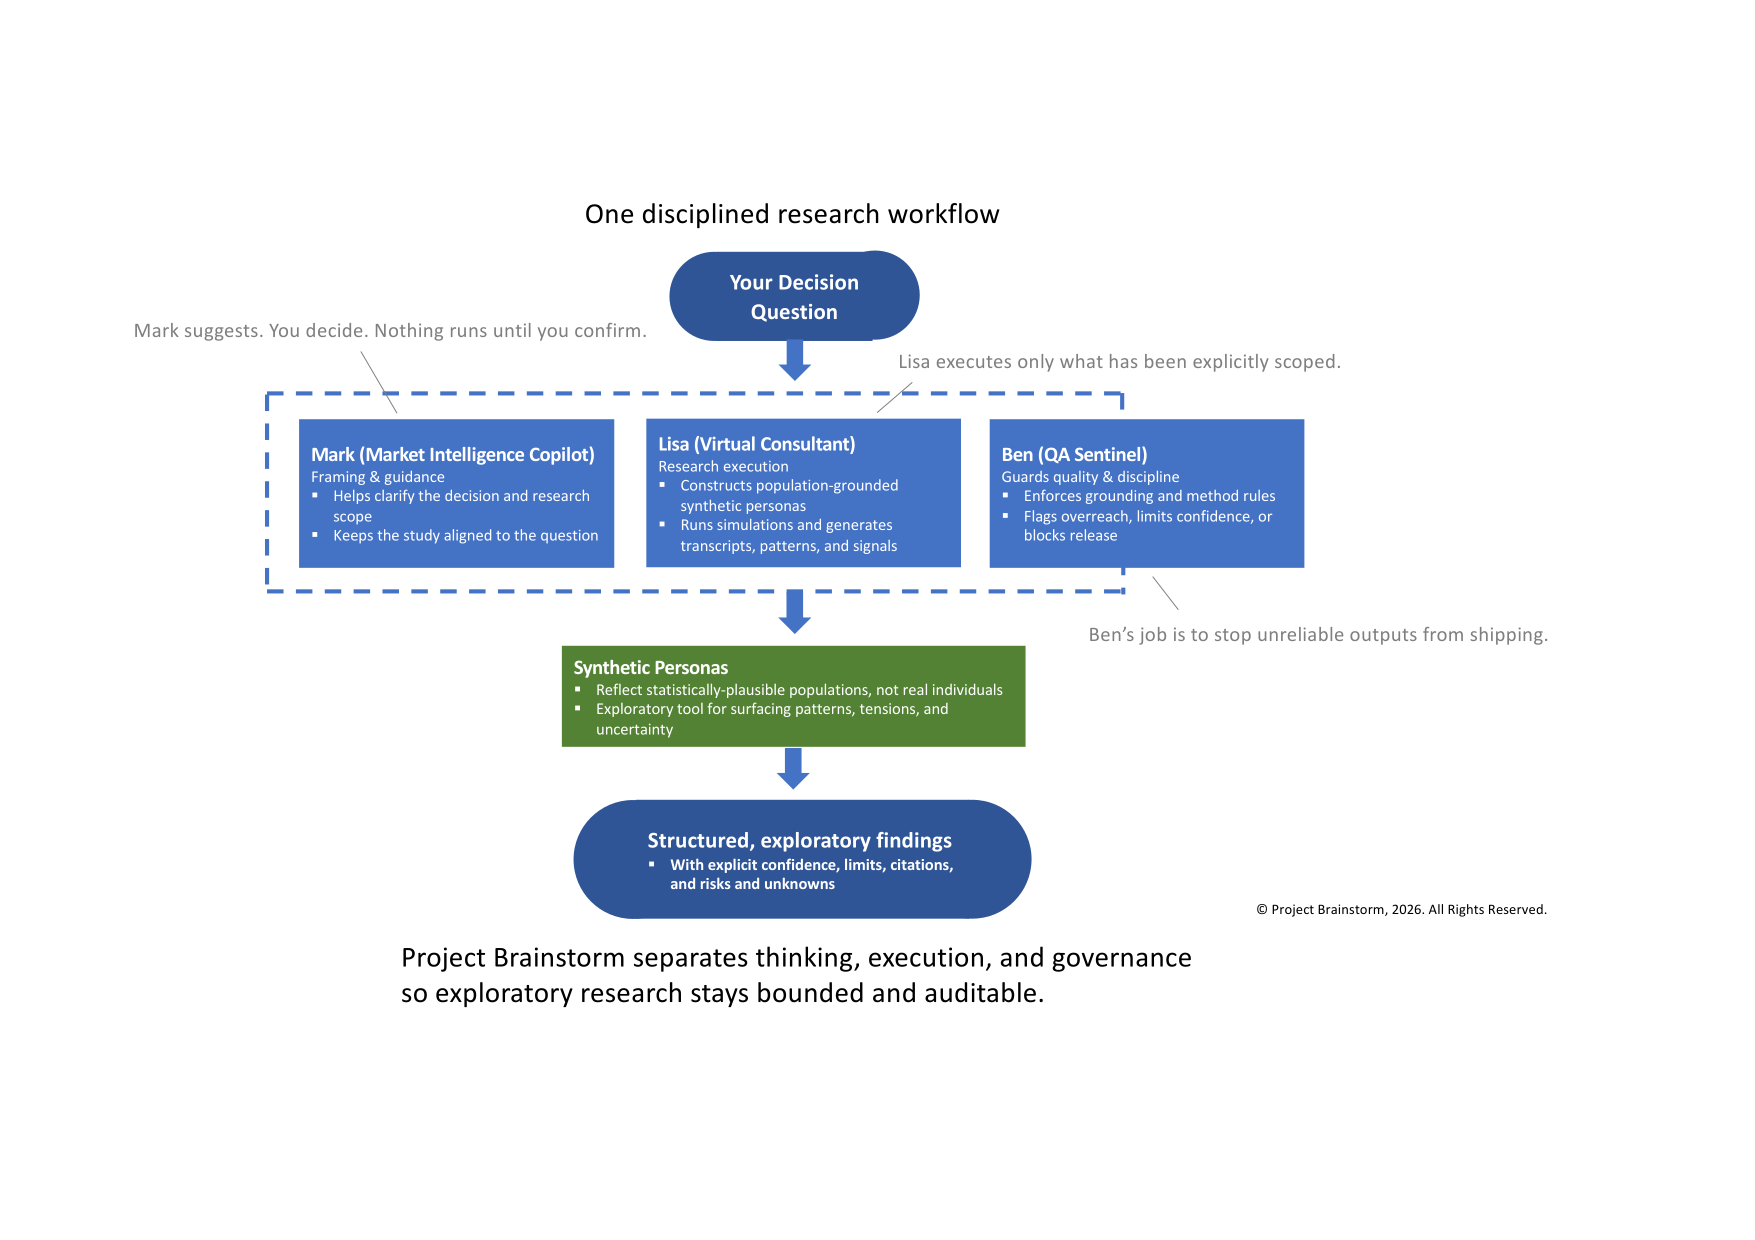
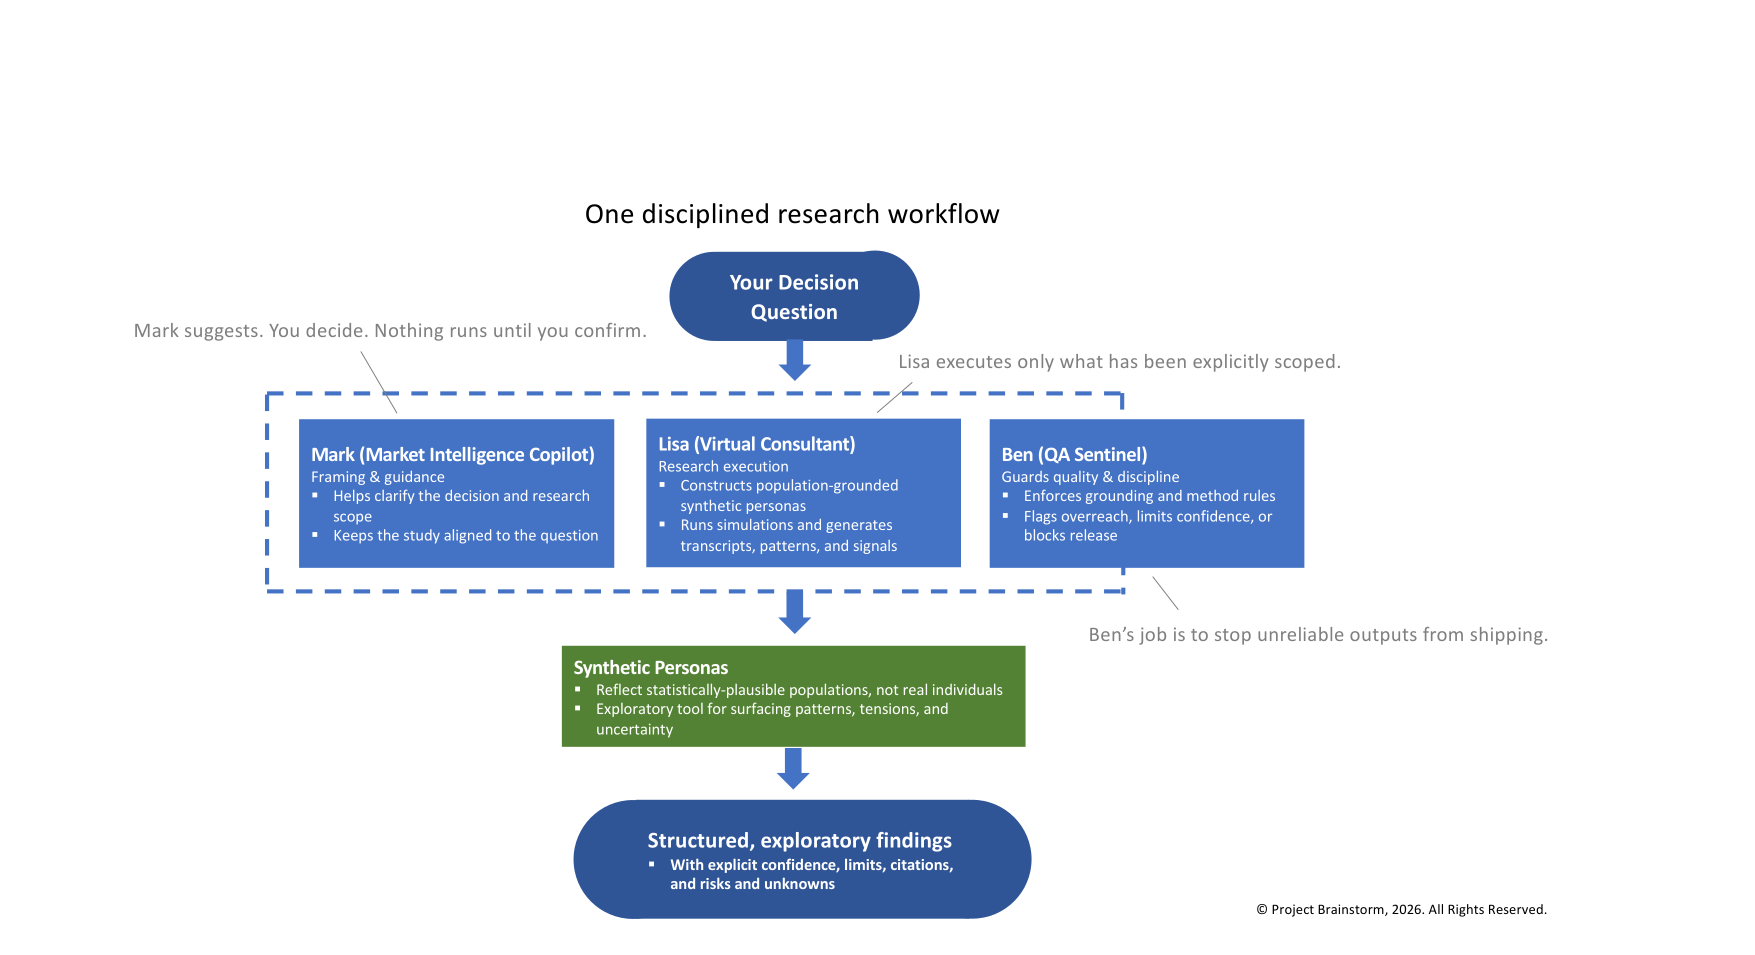
Landing V2: wider container, tighter spacing, fix CTA + workflow + pinned cards
Apply 8 visual/copy fixes to artifacts/brainstorm/templates/landing.html
(V2 English landing page) per user feedback:

1. Wider desktop container: .landing-content-inner max-width 860px → 1180px
   (and pin .landing-copy-zh to 860px so the zh page keeps its old width).
2. Tighten vertical spacing throughout the V2 section:
   .landing-v2 padding 32 36 → 24 32, intro/h2/ul/li/p/block/cta/belowfold
   margins all reduced (≈30% denser) without hurting readability.
3. Pair scope blocks: 'What this beta is for' + 'What it is not' now sit
   inside a single shared light card (.landing-fornot-card, #fafbfc with
   1px #e6ebf0 border). Column ratio updated 60/40 → 55/45.
4. De-emphasise the 'Beta V1A intentionally stops…' note: removed the
   white highlight bar / accent border / padding; now plain italic 14px
   gray text inside the scope card, tighter to it.
5. Merge the two 'Why this is a beta' lead lines into a single sentence:
   'Market simulation at this level hasn't existed before. We're running
   Project Brainstorm as a beta because:' (bullet list unchanged).
6. CTA microcopy: drop the word 'below' (button is responsive) — now
   'sign up to request access.' Button behaviour unchanged.
7. Workflow diagram: make the image itself clickable (cursor: zoom-in
   + onclick), keep the explicit 'Click to enlarge' button visible on
   desktop too (was mobile-only), drop the redundant 'separates
   thinking, execution, and governance…' caption from the page, and
[…]

diff --git a/artifacts/brainstorm/templates/landing.html b/artifacts/brainstorm/templates/landing.html
@@ -128,7 +128,7 @@
                 padding: 28px 24px 36px;
             }
             .landing-content-inner {
-                max-width: 860px;
+                max-width: 1180px;
                 margin: 0 auto;
             }
             .landing-copy {
@@ -303,6 +303,9 @@
             }
 
             .landing-copy-zh {
+                max-width: 860px;
+                margin-left: auto;
+                margin-right: auto;
                 font-size: 14px;
                 line-height: 1.55;
                 color: var(--pb-text);
@@ -373,73 +376,84 @@
             /* ====== V2 English landing layout ====== */
             .landing-v2 {
                 background: #f5f7fa;
-                padding: 32px 36px;
+                padding: 24px 32px;
                 border-radius: 12px;
             }
             .landing-v2 .landing-hero h1 {
                 font-size: 28px;
                 font-weight: 700;
-                margin: 0 0 8px;
+                margin: 0 0 6px;
                 line-height: 1.2;
             }
             .landing-v2 .landing-subhead {
                 font-size: 17px;
                 font-weight: 600;
                 color: #333;
-                margin: 0 0 14px;
+                margin: 0 0 10px;
             }
             .landing-v2 .landing-intro {
                 font-size: 15px;
                 line-height: 1.55;
-                margin: 0 0 24px;
+                margin: 0 0 16px;
             }
             .landing-v2 h2 {
                 font-size: 18px;
                 font-weight: 700;
-                margin: 0 0 8px;
+                margin: 0 0 6px;
             }
             .landing-v2 ul {
-                margin: 0 0 12px;
+                margin: 0 0 8px;
                 padding-left: 22px;
             }
             .landing-v2 li {
                 font-size: 15px;
-                line-height: 1.55;
-                margin-bottom: 4px;
+                line-height: 1.5;
+                margin-bottom: 3px;
             }
             .landing-v2 p {
                 font-size: 15px;
                 line-height: 1.55;
-                margin: 0 0 8px;
+                margin: 0 0 6px;
+            }
+            /* Paired scope cards inside one shared lighter background */
+            .landing-v2 .landing-fornot-card {
+                background: #fafbfc;
+                border: 1px solid #e6ebf0;
+                border-radius: 10px;
+                padding: 16px 18px;
+                margin-bottom: 4px;
             }
             .landing-v2 .landing-fornot-grid {
                 display: grid;
-                grid-template-columns: 60% 40%;
-                gap: 28px;
-                margin-bottom: 18px;
+                grid-template-columns: 55% 45%;
+                gap: 24px;
                 align-items: start;
             }
+            .landing-v2 .landing-fornot-col h2 { margin-bottom: 4px; }
+            .landing-v2 .landing-fornot-col ul { margin-bottom: 0; }
+            /* Tightened, low-emphasis V1A note (no highlight bar) */
             .landing-v2 .landing-note {
                 font-style: italic;
-                color: #444;
-                margin: 6px 0 22px;
-                padding: 10px 14px;
-                background: #fff;
-                border-left: 3px solid var(--pb-accent);
-                border-radius: 4px;
+                color: #555;
+                font-size: 14px;
+                margin: 6px 2px 14px;
+                padding: 0;
+                background: none;
+                border-left: 0;
+                border-radius: 0;
             }
             .landing-v2 .landing-block {
-                margin-bottom: 22px;
+                margin-bottom: 14px;
             }
             .landing-v2 .landing-cta-block {
                 display: grid;
                 grid-template-columns: 1fr auto;
-                gap: 24px;
+                gap: 20px;
                 align-items: center;
                 background: #fff;
-                padding: 18px 22px;
+                padding: 14px 20px;
                 border-radius: 10px;
-                margin-bottom: 28px;
+                margin-bottom: 18px;
             }
             .landing-v2 .landing-cta-text h2 { margin-bottom: 4px; }
             .landing-v2 .landing-cta-text p { margin: 0; }
@@ -461,9 +475,9 @@
             .landing-v2 .landing-belowfold {
                 display: grid;
                 grid-template-columns: 65% 35%;
-                gap: 28px;
-                margin-top: 18px;
-                padding-top: 24px;
+                gap: 24px;
+                margin-top: 10px;
+                padding-top: 16px;
                 border-top: 1px solid #e2e8f0;
                 align-items: start;
             }
@@ -478,10 +492,11 @@
                 width: 100%;
                 height: auto;
                 max-width: 100%;
+                cursor: zoom-in;
             }
             .landing-v2 .landing-flow-expand {
-                display: none; /* desktop: not needed */
-                margin-top: 8px;
+                display: block;
+                margin-top: 10px;
                 padding: 9px 14px;
                 background: #fff;
                 color: var(--pb-accent);
@@ -496,13 +511,6 @@
             .landing-v2 .landing-flow-expand:hover {
                 background: var(--pb-accent);
                 color: #fff;
-            }
-            .landing-v2 .landing-flow-caption {
-                font-size: 13px;
-                font-style: italic;
-                color: #555;
-                margin: 10px 4px 0;
-                text-align: center;
             }
             .landing-v2 .landing-thinking-col {
                 background: #fff;
@@ -545,6 +553,15 @@
                 transition: background 0.2s;
             }
             .landing-v2 .landing-thinking-card:hover { background: #e8eef3; }
+            .landing-v2 .landing-thinking-card-textonly {
+                display: flex;
+                align-items: center;
+                justify-content: center;
+                text-align: center;
+                padding: 16px 10px;
+                min-height: 90px;
+            }
+            .landing-v2 .landing-thinking-card-textonly h3 { font-size: 14px; }
             .landing-v2 .landing-thinking-thumb {
                 width: 100%;
                 height: 64px;
@@ -1040,28 +1057,29 @@
                         <p class="landing-intro">Project Brainstorm helps teams explore who exists in a market, how populations differ, and where assumptions may break &ndash; before money, people, or reputations are on the line.</p>
                     </header>
 
-                    <div class="landing-fornot-grid">
-                        <section class="landing-fornot-col">
-                            <h2>What this beta is for</h2>
-                            <ul>
-                                <li>Early-stage market exploration</li>
-                                <li>Understanding population structure and viewpoints</li>
-                                <li>Surfacing tensions, contradictions, and blind spots</li>
-                                <li>Stress-testing assumptions before committing resources</li>
-                            </ul>
-                        </section>
-                        <section class="landing-fornot-col">
-                            <h2>What it is not</h2>
-                            <ul>
-                                <li>A prediction engine</li>
-                                <li>A replacement for live research</li>
-                                <li>A pricing or demand optimizer</li>
-                                <li>Proof of &ldquo;who will buy&rdquo;</li>
-                            </ul>
-                        </section>
+                    <div class="landing-fornot-card">
+                        <div class="landing-fornot-grid">
+                            <section class="landing-fornot-col">
+                                <h2>What this beta is for</h2>
+                                <ul>
+                                    <li>Early-stage market exploration</li>
+                                    <li>Understanding population structure and viewpoints</li>
+                                    <li>Surfacing tensions, contradictions, and blind spots</li>
+                                    <li>Stress-testing assumptions before committing resources</li>
+                                </ul>
+                            </section>
+                            <section class="landing-fornot-col">
+                                <h2>What it is not</h2>
+                                <ul>
+                                    <li>A prediction engine</li>
+                                    <li>A replacement for live research</li>
+                                    <li>A pricing or demand optimizer</li>
+                                    <li>Proof of &ldquo;who will buy&rdquo;</li>
+                                </ul>
+                            </section>
+                        </div>
+                        <p class="landing-note">Beta V1A intentionally stops before claims of real-world outcomes.</p>
                     </div>
-
-                    <p class="landing-note">Beta V1A intentionally stops before claims of real-world outcomes.</p>
 
                     <section class="landing-block">
                         <h2>Typical uses in the beta</h2>
@@ -1075,8 +1093,7 @@
 
                     <section class="landing-block">
                         <h2>Why this is a beta</h2>
-                        <p>Market simulation at this level hasn&rsquo;t existed before.</p>
-                        <p>We&rsquo;re running Project Brainstorm as a beta because:</p>
+                        <p>Market simulation at this level hasn&rsquo;t existed before. We&rsquo;re running Project Brainstorm as a beta because:</p>
                         <ul>
                             <li>The workflows need to be pressure-tested in real decisions</li>
                             <li>We want critical feedback, not passive usage</li>
@@ -1087,7 +1104,7 @@
                     <section class="landing-block landing-cta-block">
                         <div class="landing-cta-text">
                             <h2>Request beta access</h2>
-                            <p>For people willing to use it critically and tell us what breaks, sign up to request access below.</p>
+                            <p>For people willing to use it critically and tell us what breaks, sign up to request access.</p>
                         </div>
                         <div class="landing-cta-action">
                             <a
@@ -1106,17 +1123,17 @@
                                     src="/static/flow_en.png"
                                     alt="Project Brainstorm research workflow: Mark frames, Lisa executes, Ben guards quality"
                                     class="landing-flow"
+                                    onclick="openFlowLightbox(); return false;"
                                 />
                                 <button
                                     type="button"
                                     class="landing-flow-expand"
                                     onclick="openFlowLightbox(); return false;"
-                                    aria-label="View workflow diagram full size"
+                                    aria-label="Enlarge workflow diagram"
                                 >
-                                    View workflow diagram
+                                    Click to enlarge
                                 </button>
                             </div>
-                            <p class="landing-flow-caption">Project Brainstorm separates thinking, execution, and governance so exploratory research stays bounded and auditable.</p>
                         </div>
                         <aside class="landing-thinking-col" id="section-blog">
                             <h2 class="landing-thinking-title">Want the thinking?</h2>
@@ -1132,11 +1149,9 @@
                                 {% if latest_blog_posts|length > 1 %}
                                 <div class="landing-thinking-cards">
                                     {% for post in latest_blog_posts[1:3] %}
-                                    <a href="/blog/{{ post.id }}" class="landing-thinking-card">
+                                    <a href="/blog/{{ post.id }}" class="landing-thinking-card{% if not post.image_path %} landing-thinking-card-textonly{% endif %}">
                                         {% if post.image_path %}
                                         <img src="/static/blog/{{ post.image_path }}" alt="{{ post.title }}" class="landing-thinking-thumb" />
-                                        {% else %}
-                                        <div class="landing-thinking-thumb landing-thinking-thumb-placeholder"></div>
                                         {% endif %}
                                         <h3>{{ post.title }}</h3>
                                     </a>
